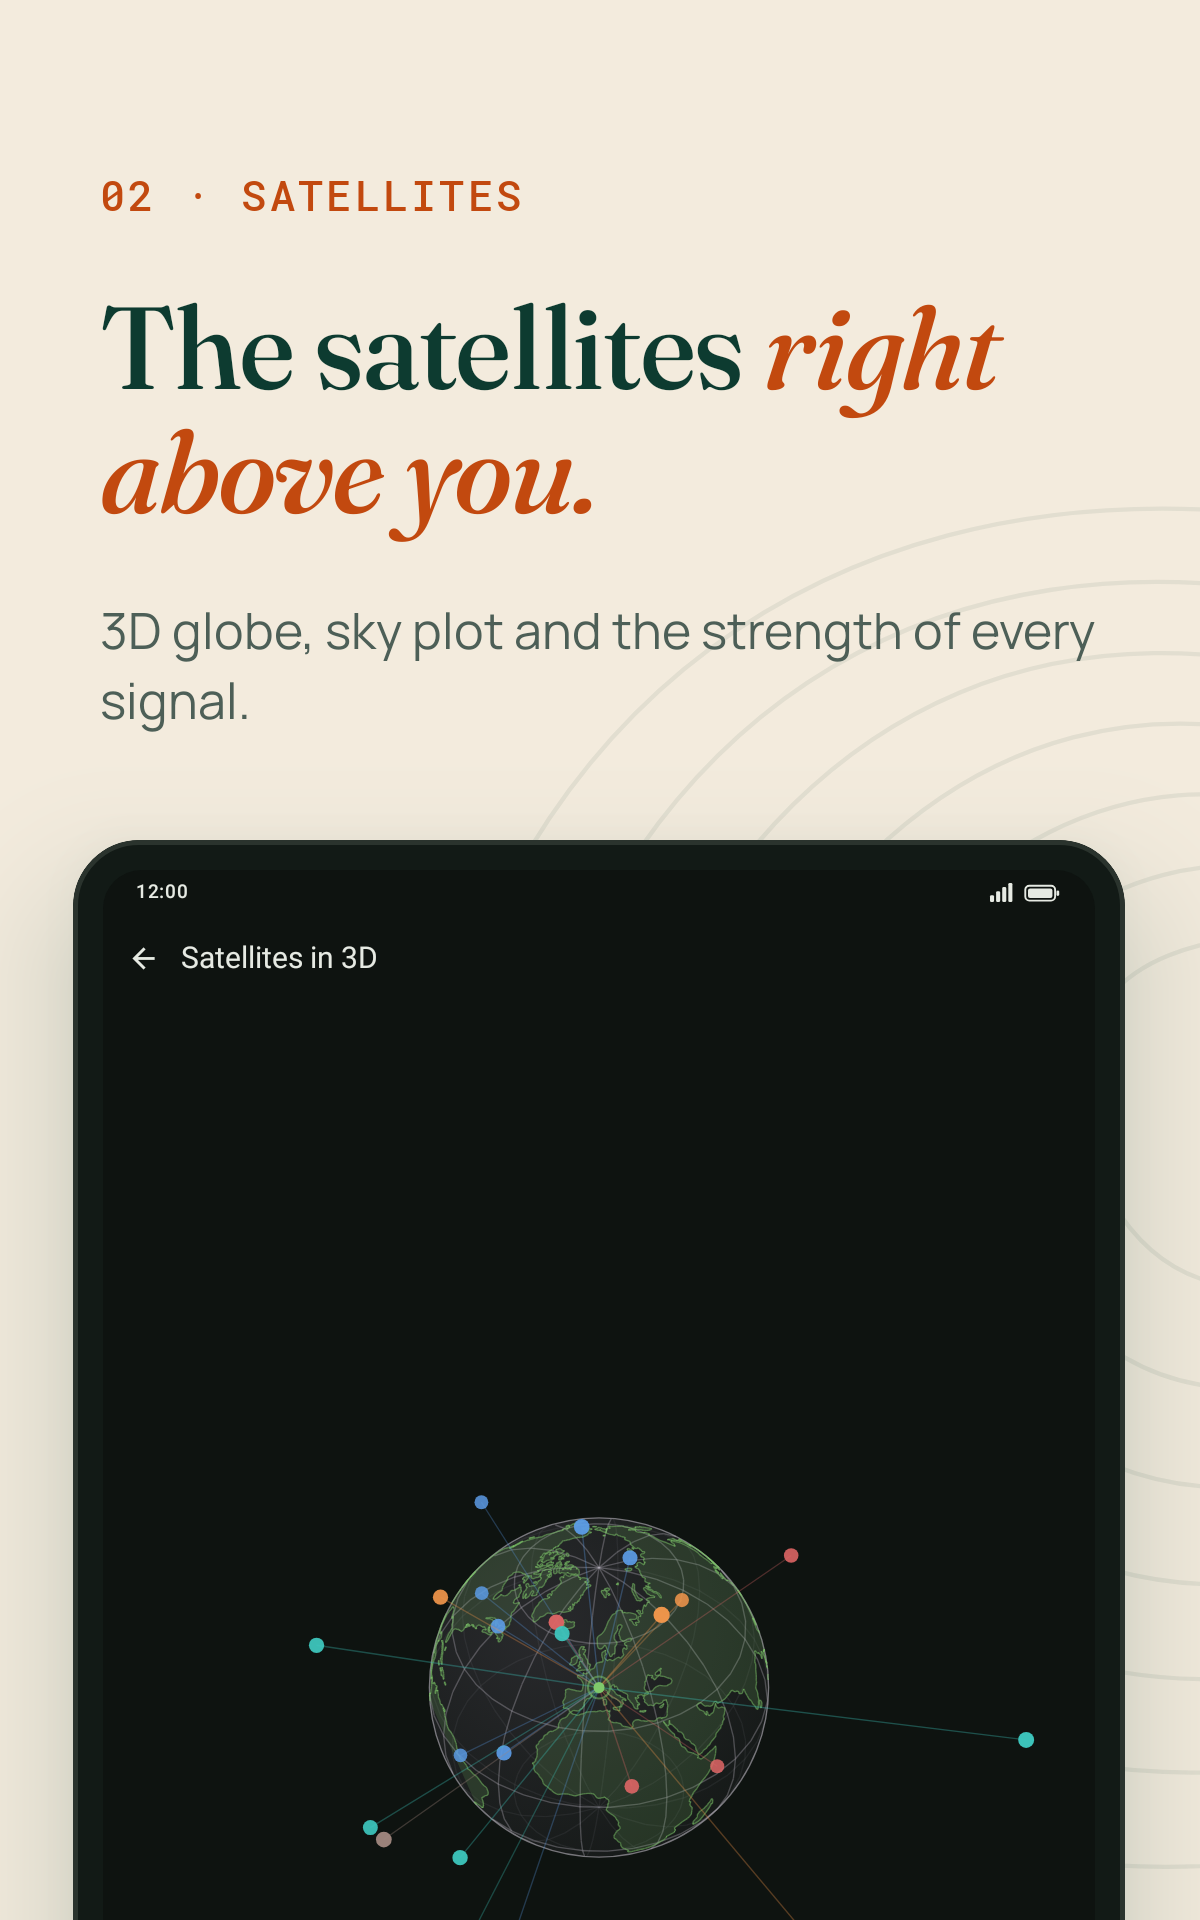
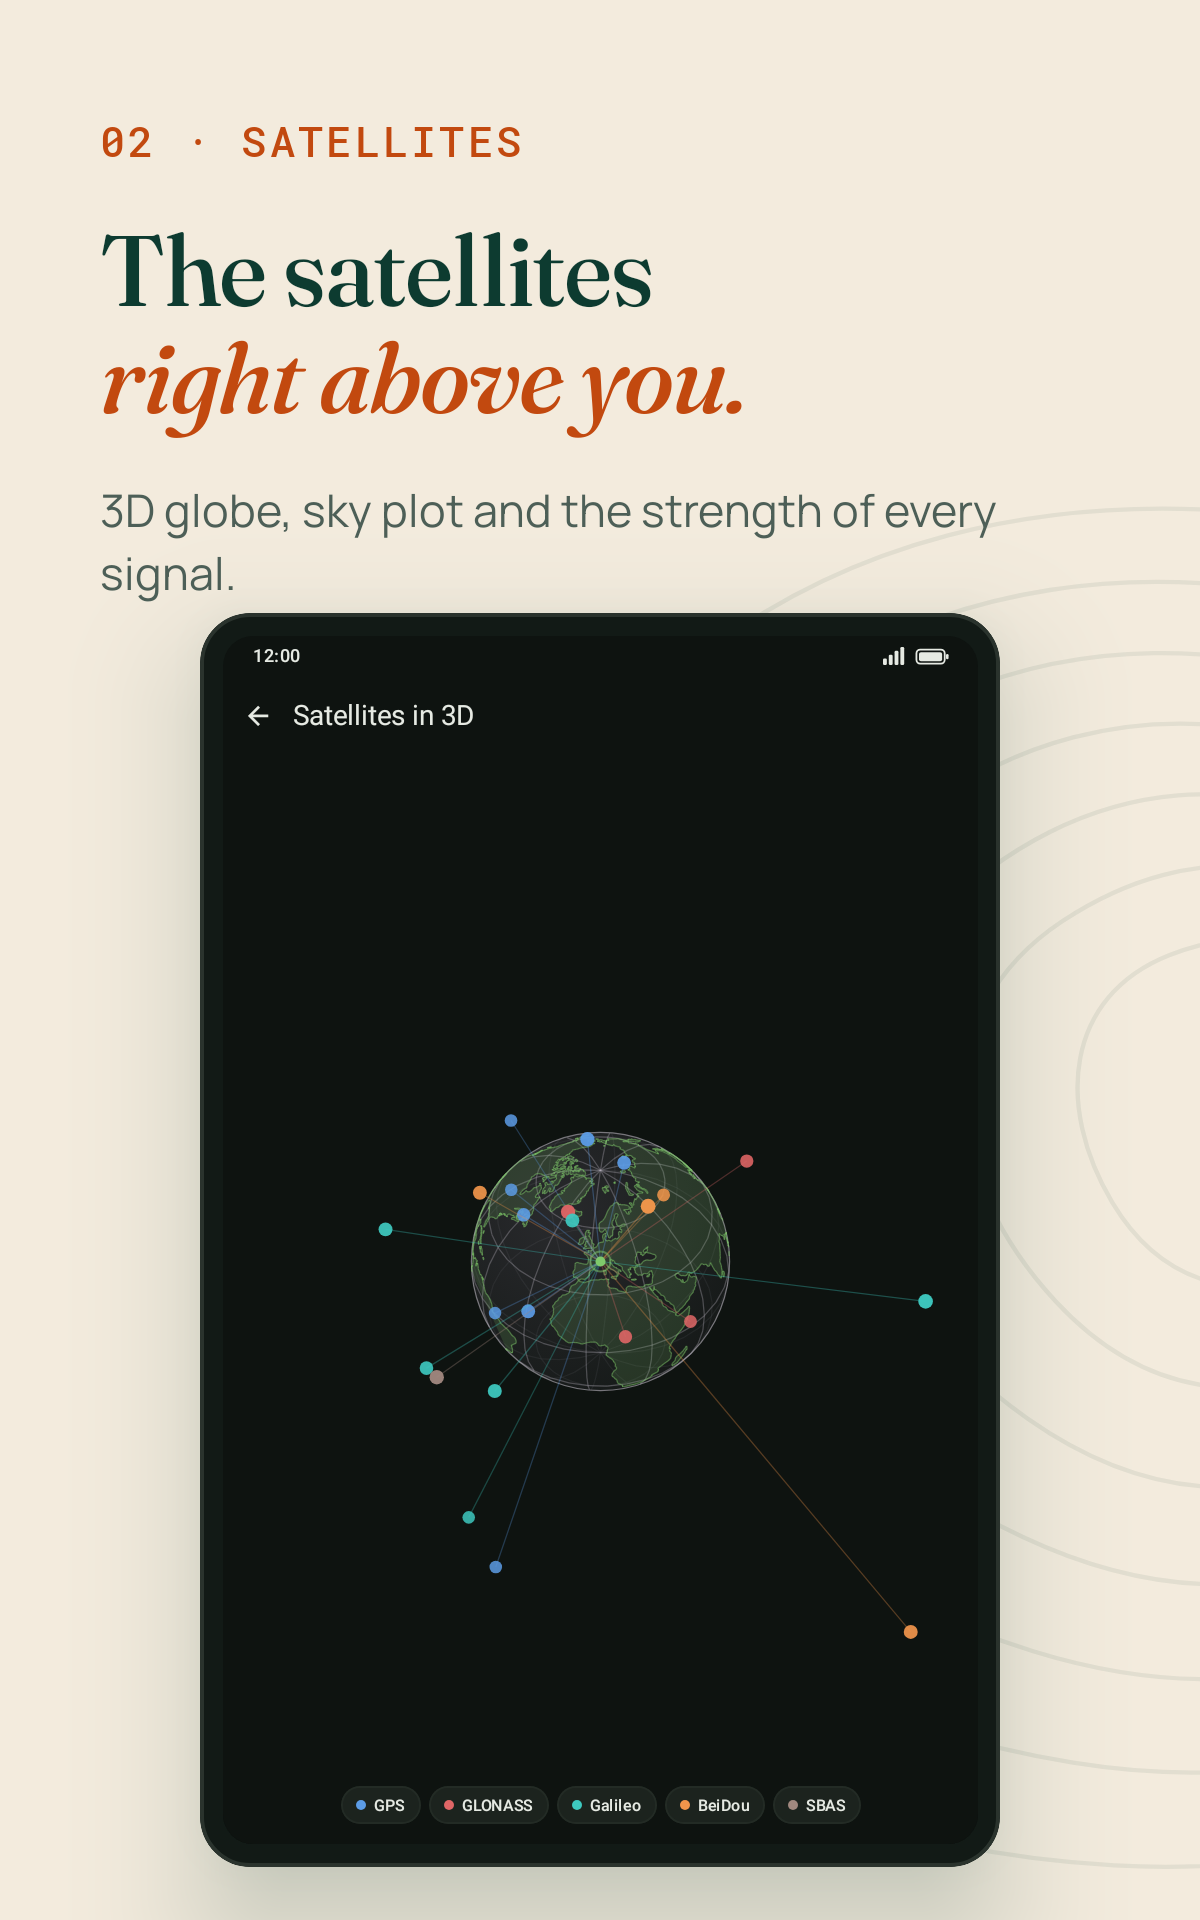
fix: show the whole tablet in the 7" and 10" screenshots
Tablets were drawn at 316/360 of the canvas width below a full-size
header, so the 1.6:1 canvas cropped away the lower half of their screen.
They are now shown whole: a 600x960 dp tablet screen (a real 7"
portrait size, so the app's text renders larger), a tighter header on
tablet canvases, and the device centred with a margin below it.

Headlines 2 and 3 also break after their comma explicitly, so the wider
tablet line no longer leaves "it" alone at the end of the first line.

diff --git a/app/src/test/java/app/matthieu/cairngps/storescreenshots/StoreFrame.kt b/app/src/test/java/app/matthieu/cairngps/storescreenshots/StoreFrame.kt
@@ -110,7 +110,7 @@ enum class DeviceKind(
     val punchHole: Boolean,
 ) {
     PHONE(360, 800, 12, 56, 46, punchHole = true),
-    TABLET(720, 1152, 22, 48, 28, punchHole = false),
+    TABLET(600, 960, 18, 40, 24, punchHole = false),
 }
 
 /** Frame size unit: 1/360 of the canvas width, so the layout scales with the canvas. */
@@ -122,6 +122,12 @@ value class Unit360(val dpPerUnit: Float) {
 
 /** Where the topographic rings sit, as a fraction of the canvas, and how big they are. */
 data class Contours(val centerX: Float, val centerY: Float, val size: Float = 1.25f)
+
+/** Vertical rhythm of a feature frame's text block, in [Unit360]. */
+private enum class HeaderMetrics(val top: Float, val gap: Float, val headlineSize: Float, val subtitleSize: Float) {
+    REGULAR(top = 50f, gap = 16f, headlineSize = 35f, subtitleSize = 15f),
+    COMPACT(top = 34f, gap = 12f, headlineSize = 30f, subtitleSize = 13.5f),
+}
 
 /** One device of a frame: its horizontal position and width in [Unit360], its top in units. */
 data class DeviceSlot(val x: Float, val top: Float, val width: Float)
@@ -144,23 +150,30 @@ fun FeatureFrame(
             .clipToBounds(),
     ) {
         val u = Unit360(maxWidth.value / 360f)
+        // Tablet canvases are shorter (1.6:1 instead of 2:1) and the whole tablet must fit below
+        // the text, so the header is tightened there.
+        val header = if (device == DeviceKind.TABLET) HeaderMetrics.COMPACT else HeaderMetrics.REGULAR
         ContourRings(contours, backdrop.contour)
-        Column(modifier = Modifier.padding(start = u(30), end = u(26), top = u(50))) {
+        Column(modifier = Modifier.padding(start = u(30), end = u(26), top = u(header.top))) {
             Eyebrow(copy.eyebrow, backdrop.eyebrow, fonts, u)
-            Spacer(Modifier.height(u(16)))
+            Spacer(Modifier.height(u(header.gap)))
             HeadlineText(
                 headline = copy.headline,
                 color = backdrop.text,
                 accent = backdrop.accent,
                 fonts = fonts,
-                fontSize = u.sp(35),
-                lineHeight = u.sp(37),
+                fontSize = u.sp(header.headlineSize),
+                lineHeight = u.sp(header.headlineSize + 2),
             )
-            Spacer(Modifier.height(u(16)))
+            Spacer(Modifier.height(u(header.gap)))
             Text(
                 text = copy.subtitle,
                 color = backdrop.muted,
-                style = TextStyle(fontFamily = fonts.sans, fontSize = u.sp(15), lineHeight = u.sp(21)),
+                style = TextStyle(
+                    fontFamily = fonts.sans,
+                    fontSize = u.sp(header.subtitleSize),
+                    lineHeight = u.sp(header.subtitleSize * 1.4f),
+                ),
             )
         }
         // Later slots are drawn first so the first device overlaps the second, like the

diff --git a/app/src/test/java/app/matthieu/cairngps/storescreenshots/StoreCopy.kt b/app/src/test/java/app/matthieu/cairngps/storescreenshots/StoreCopy.kt
@@ -34,12 +34,12 @@ val FrenchCopy = StoreCopy(
     ),
     satellites = FeatureCopy(
         eyebrow = "02 · Satellites",
-        headline = Headline("Les satellites ", "au-dessus de vous."),
+        headline = Headline("Les satellites\n", "au-dessus de vous."),
         subtitle = "Globe 3D, carte du ciel et force de chaque signal.",
     ),
     tracks = FeatureCopy(
         eyebrow = "03 · Traces",
-        headline = Headline("Rangez le téléphone, ", "il garde la trace."),
+        headline = Headline("Rangez le téléphone,\n", "il garde la trace."),
         subtitle = "Distance, dénivelé et profil, même écran éteint.",
     ),
     compass = FeatureCopy(
@@ -81,12 +81,12 @@ val EnglishCopy = StoreCopy(
     ),
     satellites = FeatureCopy(
         eyebrow = "02 · Satellites",
-        headline = Headline("The satellites ", "right above you."),
+        headline = Headline("The satellites\n", "right above you."),
         subtitle = "3D globe, sky plot and the strength of every signal.",
     ),
     tracks = FeatureCopy(
         eyebrow = "03 · Tracks",
-        headline = Headline("Pocket your phone, ", "it keeps the track."),
+        headline = Headline("Pocket your phone,\n", "it keeps the track."),
         subtitle = "Distance, climb and profile, even with the screen off.",
     ),
     compass = FeatureCopy(

diff --git a/app/src/test/java/app/matthieu/cairngps/storescreenshots/StoreScreenshotsTest.kt b/app/src/test/java/app/matthieu/cairngps/storescreenshots/StoreScreenshotsTest.kt
@@ -179,10 +179,11 @@ class StoreScreenshotsTest {
         spoofed: Boolean = false,
         settleMs: Long = 2_500,
     ) = StoreFrameSpec(spoofed = spoofed, settleMs = settleMs) { fonts, _, device ->
-        // Tablets get a single, larger device: two overlapping tablets don't fit the canvas.
+        // Tablets get a single device, shown whole: two tablets don't fit the canvas, and a
+        // cropped one hides too much of its screen.
         val shown = if (device == DeviceKind.TABLET) screens.take(1) else screens.toList()
         val slots = when {
-            device == DeviceKind.TABLET -> listOf(DeviceSlot(x = 22f, top = 252f, width = 316f))
+            device == DeviceKind.TABLET -> listOf(DeviceSlot(x = 60f, top = 184f, width = 240f))
             shown.size == 1 -> listOf(DeviceSlot(x = 46f, top = 262f, width = 268f))
             else -> listOf(DeviceSlot(x = 12f, top = 262f, width = 192f), DeviceSlot(x = 158f, top = 314f, width = 192f))
         }
